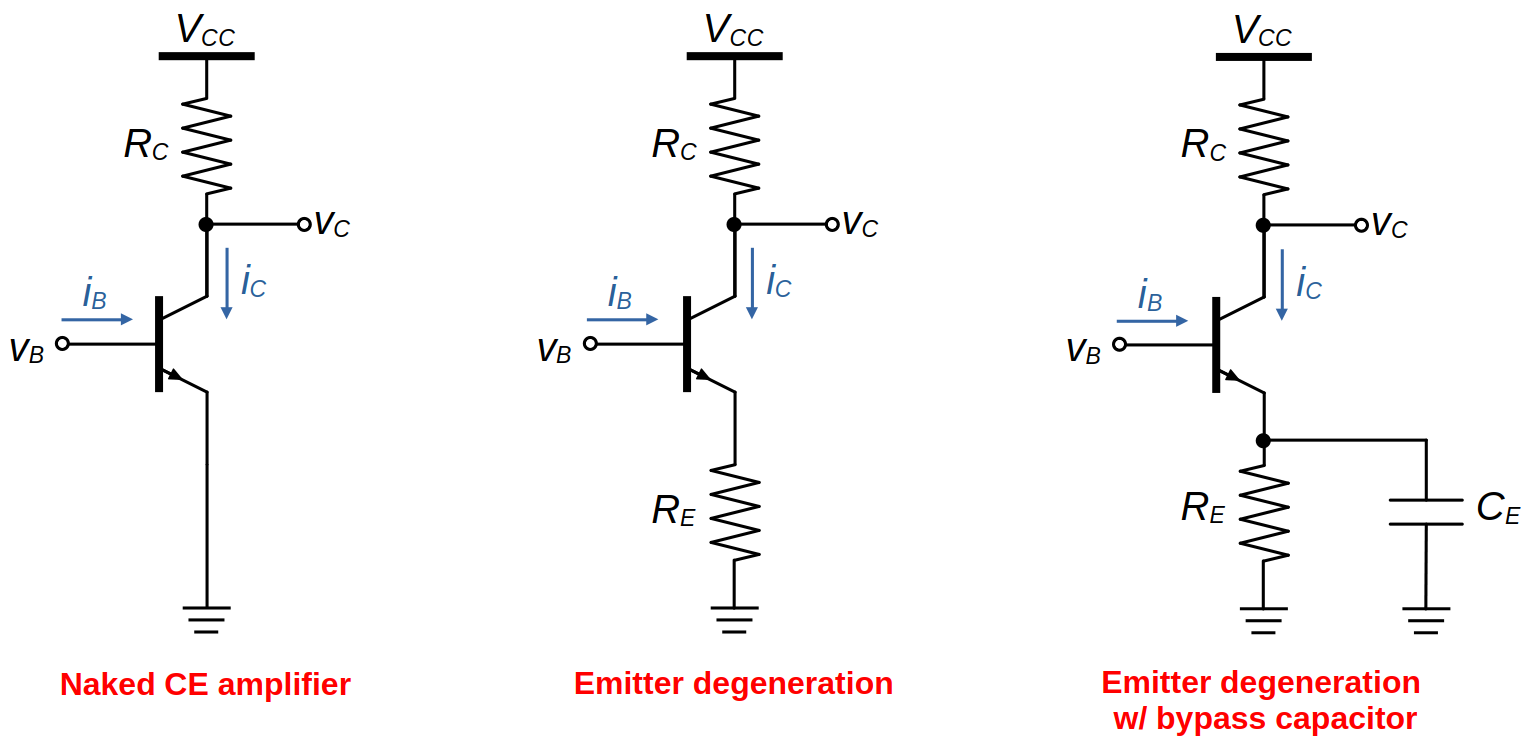
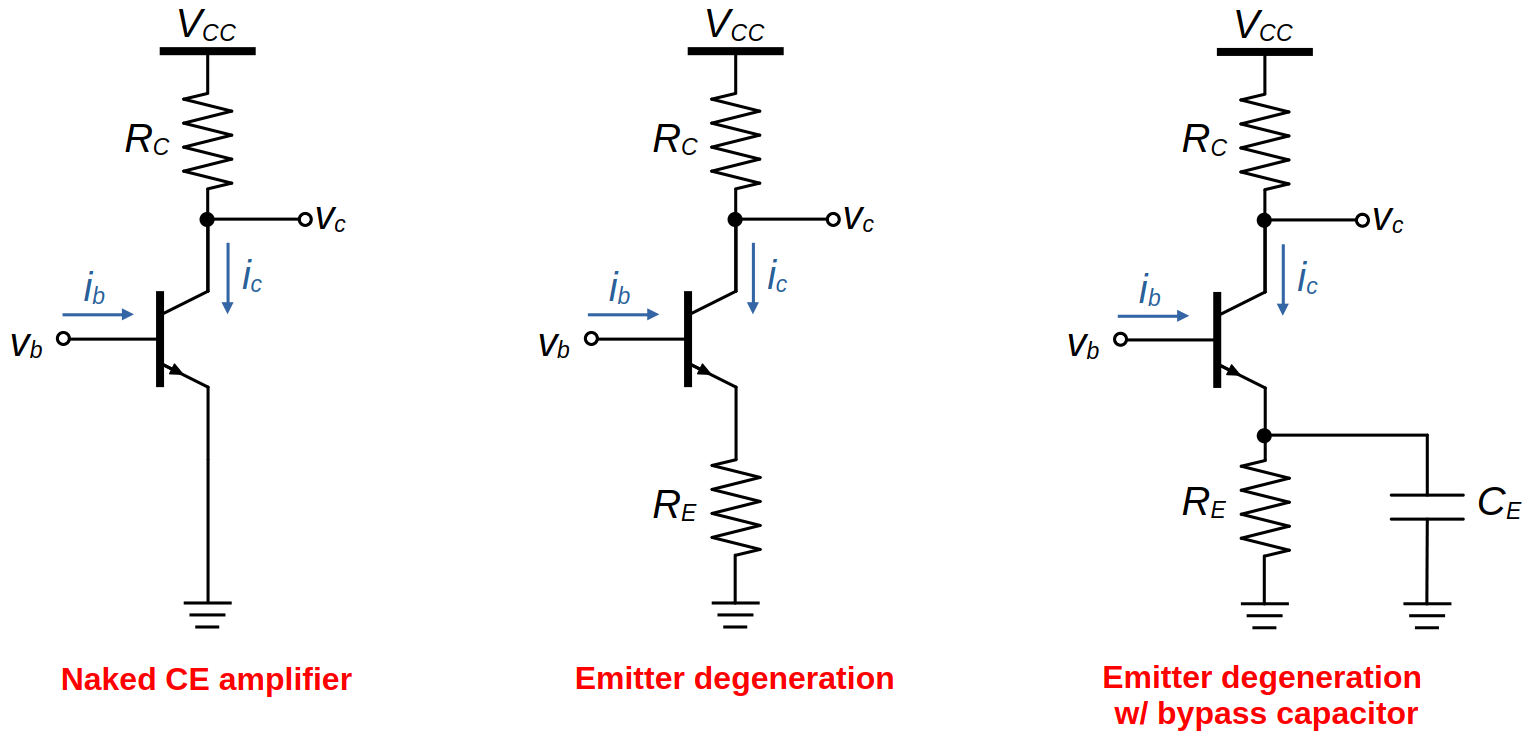
fix: minor changes in bjt

diff --git a/_posts/2026-06-04-bjt-not-two-diodes-en.md b/_posts/2026-06-04-bjt-not-two-diodes-en.md
@@ -262,16 +262,16 @@ But this optimization comes at a cost: the **voltage gain will decrease**. Circu
 
 $$A_v = \frac{-g_m R_C}{1 + g_m R_E}$$
 
-and if the pull-up and pull-down resistances are high enough, the gain becomes $$A_v \approx -R_C / R_E$$, which is completely independent of the BJT itself, eliminating the impact of errors on $$\beta$$ during manufacture. 
+and if the term $$g_m R_E$$ is large enough, the gain becomes $$A_v \approx -R_C / R_E$$, which is completely independent of the BJT itself, eliminating the impact of errors on $$\beta$$ during manufacture. 
 
 Key parameters before and after emitter degeneration are derived from small signal analysis.
 
 |     **Parameter**                      |     **Expression**     |     **Before degeneration**               |     **After degeneration**                           |
 |:---------------------------------------|:----------------------:|:-----------------------------------------:|:----------------------------------------------------:|
-| **Voltage gain** $$A_v$$               | $$v_o / v_i$$          | $$-g_m(R_C\parallel r_o)\approx -g_mR_C$$ | $$\frac{-g_mR_C}{1+g_mR_E}\approx -\frac{R_C}{R_E}$$ |
-| **Current gain** $$A_i$$               | $$i_o / i_i$$          | $$\beta$$                                 | $$\beta$$                                            |
-| **Input impedance** $$r_\text{in}$$    | $$v_i / i_i$$          | $$r_\pi$$                                 | $$r_\pi + (\beta + 1)R_E$$                           |
-| **Output impedance** $$r_\text{out}$$  | $$v_o / i_o$$          | $$R_C$$                                   | $$R_C$$                                              |
+| **Voltage gain** $$A_v$$               | $$v_c / v_b$$          | $$-g_m(R_C\parallel r_o)\approx -g_mR_C$$ | $$\frac{-g_mR_C}{1+g_mR_E}\approx -\frac{R_C}{R_E}$$ |
+| **Current gain** $$A_i$$               | $$i_c / i_b$$          | $$\beta$$                                 | $$\beta$$                                            |
+| **Input impedance** $$r_\text{in}$$    | $$v_b / i_b$$          | $$r_\pi$$                                 | $$r_\pi + (\beta + 1)R_E$$                           |
+| **Output impedance** $$r_\text{out}$$  | $$v_c / i_c$$          | $$R_C$$                                   | $$R_C$$                                              |
 
 The regulation is targeted mainly at the DC component but not AC, but a simple pull-down resistor affects both DC and AC. To minimize this trade-off, we can connect a capacitor $$C_E$$ in parallel with $$R_E$$, **allowing the AC component to bypass it** in order to increase its gain. For more finer control, we can even divide $$R_E$$ into two parts and connect $$C_E$$ in parallel with only one of them.
 

diff --git a/_posts/2026-06-04-bjt-not-two-diodes-cn.md b/_posts/2026-06-04-bjt-not-two-diodes-cn.md
@@ -262,16 +262,16 @@ $$A_v = -g_m (R_C \parallel r_o) = -g_m \frac{R_C\,r_o}{R_C + r_o}$$
 
 $$A_v = \frac{-g_m R_C}{1 + g_m R_E}$$
 
-并且如果上拉和下拉电阻足够大，增益将变为 $$A_v \approx -R_C / R_E$$，完全独立于 BJT 自身，从而消除了制造过程中 $$\beta$$ 的误差带来的影响。
+并且如果 $$g_m R_E$$ 项足够大，增益将变为 $$A_v \approx -R_C / R_E$$，完全独立于 BJT 自身，从而消除了制造过程中 $$\beta$$ 的误差带来的影响。
 
 通过小信号分析可以推导出发射极退化前后的关键参数。
 
 |     **参数**                      |     **表达式**     |     **退化前**               |     **退化后**                           |
 |:---------------------------------------|:----------------------:|:-----------------------------------------:|:----------------------------------------------------:|
-| **电压增益** $$A_v$$               | $$v_o / v_i$$          | $$-g_m(R_C\parallel r_o)\approx -g_mR_C$$ | $$\frac{-g_mR_C}{1+g_mR_E}\approx -\frac{R_C}{R_E}$$ |
-| **电流增益** $$A_i$$               | $$i_o / i_i$$          | $$\beta$$                                 | $$\beta$$                                            |
-| **输入阻抗** $$r_\text{in}$$    | $$v_i / i_i$$          | $$r_\pi$$                                 | $$r_\pi + (\beta + 1)R_E$$                           |
-| **输出阻抗** $$r_\text{out}$$  | $$v_o / i_o$$          | $$R_C$$                                   | $$R_C$$                                              |
+| **电压增益** $$A_v$$               | $$v_c / v_b$$          | $$-g_m(R_C\parallel r_o)\approx -g_mR_C$$ | $$\frac{-g_mR_C}{1+g_mR_E}\approx -\frac{R_C}{R_E}$$ |
+| **电流增益** $$A_i$$               | $$i_c / i_b$$          | $$\beta$$                                 | $$\beta$$                                            |
+| **输入阻抗** $$r_\text{in}$$    | $$v_b / i_b$$          | $$r_\pi$$                                 | $$r_\pi + (\beta + 1)R_E$$                           |
+| **输出阻抗** $$r_\text{out}$$  | $$v_c / i_c$$          | $$R_C$$                                   | $$R_C$$                                              |
 
 这种调节主要针对直流分量而非交流分量，但一个简单的下拉电阻会同时影响直流和交流。为了最小化这种权衡，我们可以在 $$R_E$$ 上并联一个电容 $$C_E$$，**允许交流分量将其旁路**，以提高其增益。为了更精细的控制，我们甚至可以将 $$R_E$$ 分成两部分，并仅在其中一部分上并联 $$C_E$$。
 
